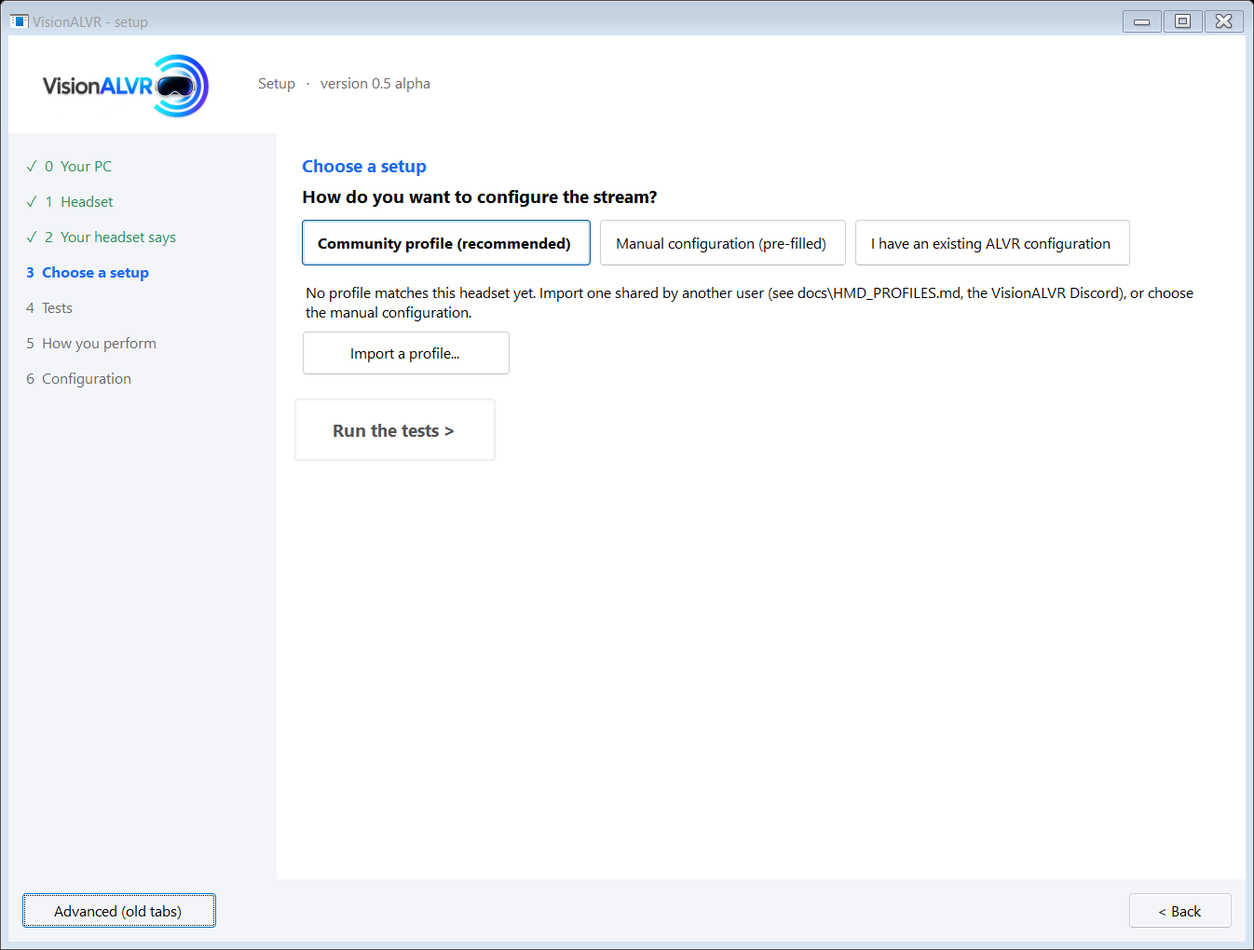
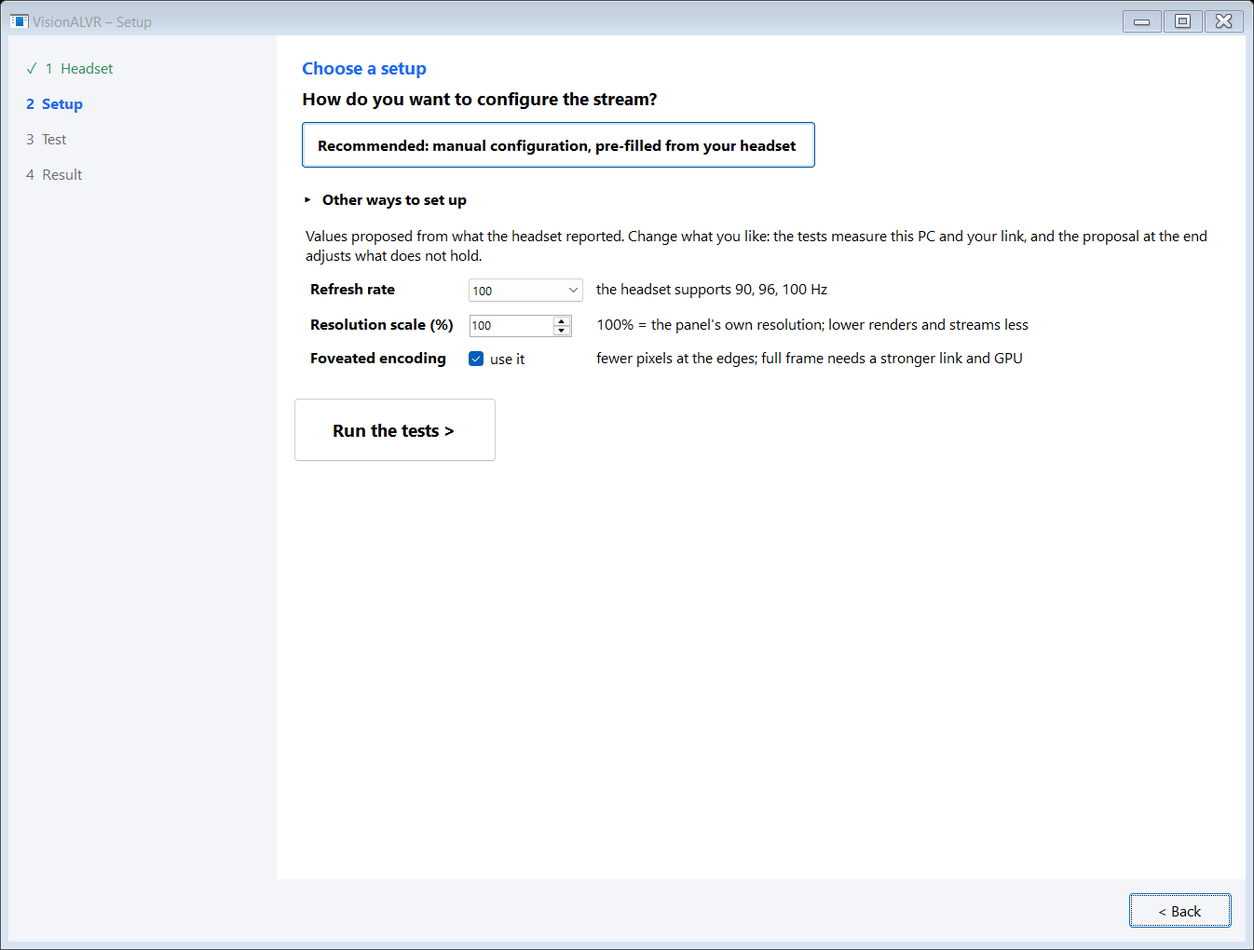
UI pass 4: wizard with four visible steps, one recommended setup + Other ways, verdict and top suggestions first (details collapsed), firewall dialog with one Clean up, Experimental badges, Apply for frame generation suggestions, launcher logs a refused second start; README screenshots, INSTALL

diff --git a/tools/gui/Wizard.cs b/tools/gui/Wizard.cs
@@ -25,10 +25,11 @@ namespace VisionALVR
         readonly Panel stepsPanel = new Panel { Dock = DockStyle.Left, Width = 230, BackColor = Color.FromArgb(0xF3, 0xF5, 0xF9), Padding = new Padding(12) };
         readonly Button back = new Button { Text = "< Back", AutoSize = true, MinimumSize = new Size(90, 30) };
         readonly Button next = new Button { Text = "Next >", AutoSize = true, MinimumSize = new Size(110, 30), Font = Ui.Bold };
-        readonly Button advanced = new Button { Text = "Advanced (old tabs)", AutoSize = true };
-        readonly Label[] stepLabels = new Label[7];
+                readonly Label[] stepLabels = new Label[4];
         Control wizHeader;
-        static readonly string[] StepNames = { "0  Your PC", "1  Headset", "2  Your headset says", "3  Choose a setup", "4  Tests", "5  How you perform", "6  Configuration" };
+        // four steps the user sees; the pages behind them: PC check + headset + handshake / choice of setup / tests / verdict + configuration
+        static readonly string[] StepNames = { "1  Headset", "2  Setup", "3  Test", "4  Result" };
+        static int Group(int page) => page <= 2 ? 0 : page == 3 ? 1 : page == 4 ? 2 : 3;
         int step;
         // state
         Handshake hs = new Handshake();
@@ -73,24 +74,21 @@ namespace VisionALVR
             Width = 1080; Height = 900;   // design values at 96 dpi: scaled at load, then kept inside the work area
             MinimumSize = new Size(980, 760);
             Ui.FitToWorkArea(this);
-            for (int i = 0; i < 7; i++)
+            for (int i = 0; i < 4; i++)
             {
                 stepLabels[i] = new Label { Text = StepNames[i], AutoSize = false, Height = 30, Dock = DockStyle.Top, Font = Ui.Body, ForeColor = Color.DimGray, TextAlign = ContentAlignment.MiddleLeft };
             }
-            for (int i = 6; i >= 0; i--) stepsPanel.Controls.Add(stepLabels[i]);
+            for (int i = 3; i >= 0; i--) stepsPanel.Controls.Add(stepLabels[i]);
             var bottom = new TableLayoutPanel { Dock = DockStyle.Bottom, AutoSize = true, ColumnCount = 4, Padding = new Padding(8), BackColor = Color.FromArgb(0xF3, 0xF5, 0xF9) };
             bottom.ColumnStyles.Add(new ColumnStyle(SizeType.AutoSize));
             bottom.ColumnStyles.Add(new ColumnStyle(SizeType.Percent, 100));
             bottom.ColumnStyles.Add(new ColumnStyle(SizeType.AutoSize));
             bottom.ColumnStyles.Add(new ColumnStyle(SizeType.AutoSize));
-            bottom.Controls.Add(advanced, 0, 0);
             bottom.Controls.Add(new Label(), 1, 0);
             bottom.Controls.Add(back, 2, 0);
             bottom.Controls.Add(next, 3, 0);
-            advanced.Visible = !cmd.Contains("--diagnose");
             back.Click += (s, e) => GoBack();
             next.Click += (s, e) => GoNext();
-            advanced.Click += (s, e) => { Hide(); new ConfigureForm(check).ShowDialog(); Close(); };
             Controls.Add(content);
             Controls.Add(stepsPanel);
             Controls.Add(bottom);
@@ -129,12 +127,15 @@ namespace VisionALVR
             if (wizHeader != null) wizHeader.Visible = s <= 1;
             discovery?.Dispose(); discovery = null;
             content.Controls.Clear();
-            for (int i = 0; i < 7; i++)
+            int g = Group(s), shown = 0;
+            for (int i = 0; i < 4; i++)
             {
-                stepLabels[i].Font = i == s ? Ui.Bold : Ui.Body;
-                stepLabels[i].ForeColor = i == s ? Ui.Accent : (i < s ? Color.SeaGreen : Color.DimGray);
-                stepLabels[i].Text = (i < s ? "✓  " : "") + StepNames[i];
-                stepLabels[i].Visible = !(diagnose && (i == 3 || i == 6));
+                stepLabels[i].Visible = !(diagnose && i == 1);   // diagnosing keeps the setup as it is: no Setup step
+                if (!stepLabels[i].Visible) continue;
+                shown++;
+                stepLabels[i].Font = i == g ? Ui.Bold : Ui.Body;
+                stepLabels[i].ForeColor = i == g ? Ui.Accent : (i < g ? Color.SeaGreen : Color.DimGray);
+                stepLabels[i].Text = (i < g ? "\u2713  " : "") + (diagnose && i > 1 ? StepNames[i].Replace((i + 1).ToString(), i.ToString()) : StepNames[i]);
             }
             back.Enabled = s > 1; back.Visible = true; next.Visible = true; next.Text = "Next >"; next.Enabled = true;
             Control page;
@@ -427,20 +428,35 @@ namespace VisionALVR
             // the three ways to a configuration; the tests (next page) then check it on this PC
             p.Controls.Add(Ui.Line("How do you want to configure the stream?", Ui.Big));
             var modes = new FlowLayoutPanel { AutoSize = true, WrapContents = true, MaximumSize = new Size(820, 0) };
-            modeProfile = new RadioButton { Appearance = Appearance.Button, Text = "Community profile (recommended)", AutoSize = true, Checked = true, Font = Ui.Bold, Padding = new Padding(8) };
+            modeProfile = new RadioButton { Appearance = Appearance.Button, Text = "Community profile", AutoSize = true, Font = Ui.Body, Padding = new Padding(8) };
             modeManual = new RadioButton { Appearance = Appearance.Button, Text = "Manual configuration (pre-filled)", AutoSize = true, Font = Ui.Body, Padding = new Padding(8) };
             modeExisting = new RadioButton { Appearance = Appearance.Button, Text = "I have an existing ALVR configuration", AutoSize = true, Font = Ui.Body, Padding = new Padding(8) };
-            modeProfile.CheckedChanged += (s, e) => { modeProfile.Font = modeProfile.Checked ? Ui.Bold : Ui.Body; RenderMode(real); };
-            modeManual.CheckedChanged += (s, e) => { modeManual.Font = modeManual.Checked ? Ui.Bold : Ui.Body; RenderMode(real); };
-            modeExisting.CheckedChanged += (s, e) => { modeExisting.Font = modeExisting.Checked ? Ui.Bold : Ui.Body; RenderMode(real); };
-            modes.Controls.Add(modeProfile); modes.Controls.Add(modeManual); modes.Controls.Add(modeExisting);
+            // the recommended way is the one choice shown: the matching community profile, else the pre-filled values; the others sit under "Other ways to set up".
+            // The buttons live in two containers, so they are made exclusive by hand.
+            var rec = matchedProfile != null ? modeProfile : modeManual;
+            rec.Text = "Recommended: " + (matchedProfile != null ? "community profile for your headset" : "manual configuration, pre-filled from your headset");
+            var radios = new[] { modeProfile, modeManual, modeExisting };
+            foreach (var r0 in radios)
+            {
+                var r = r0;
+                r.CheckedChanged += (s, e) =>
+                {
+                    r.Font = r.Checked ? Ui.Bold : Ui.Body;
+                    if (r.Checked) foreach (var o in radios) if (o != r && o.Checked) o.Checked = false;
+                    if (radios.Any(o => o.Checked)) RenderMode(real);
+                };
+            }
+            modes.Controls.Add(rec);
             p.Controls.Add(modes);
+            var others = new FlowLayoutPanel { AutoSize = true, WrapContents = true, MaximumSize = new Size(820, 0) };
+            foreach (var r in radios) if (r != rec) others.Controls.Add(r);
+            p.Controls.Add(Ui.Expander("Other ways to set up", others));
             modePanel = new FlowLayoutPanel { FlowDirection = FlowDirection.TopDown, WrapContents = false, AutoSize = true };
             p.Controls.Add(modePanel);
             hsGo = new Button { Text = "Run the tests >", AutoSize = true, Font = Ui.Big, Padding = new Padding(10), Margin = new Padding(0, 12, 0, 0) };
             hsGo.Click += (s, e) => ContinueToTests();
             p.Controls.Add(hsGo);
-            RenderMode(real);
+            rec.Checked = true;   // renders the option (the buttons' handlers need modePanel and hsGo)
             return p;
         }
 

diff --git a/tools/gui/Common.cs b/tools/gui/Common.cs
@@ -1033,8 +1033,8 @@ namespace VisionALVR
     {
         readonly ListView list = new ListView { View = View.Details, CheckBoxes = true, FullRowSelect = true, Height = 240, Width = 880, HeaderStyle = ColumnHeaderStyle.Nonclickable };
         readonly Label headline = new Label { AutoSize = true, MaximumSize = new Size(880, 0), Font = Ui.Bold, Margin = new Padding(3, 6, 3, 6) };
-        readonly Button allow = new Button { Text = "Allow this folder", AutoSize = true, Font = Ui.Bold, MinimumSize = new Size(130, 30) };
-        readonly Button remove = new Button { Text = "Remove ticked", AutoSize = true, MinimumSize = new Size(130, 30) };
+        readonly Button allow = new Button { Text = "Clean up", AutoSize = true, Font = Ui.Bold, MinimumSize = new Size(130, 30) };
+        readonly Button remove = new Button { Text = "Remove only the ticked rules", AutoSize = true, MinimumSize = new Size(130, 30) };
         FwReport report;
         readonly string exe;
         public FirewallForm(FwReport demo = null)
@@ -1050,15 +1050,26 @@ namespace VisionALVR
                 "Ticked rules are leftovers: files that are gone, duplicates, rules that block. Rules of other copies that still exist are left alone.", AutoSize = true, MaximumSize = new Size(880, 0), Margin = new Padding(3, 4, 3, 4) });
             col.Controls.Add(headline);
             foreach (var c in new[] { ("Rule", 190), ("Action", 70), ("Protocol", 80), ("Network", 100), ("On", 40), ("What it is", 400) }) Ui.Col(list, c.Item1, c.Item2);
-            col.Controls.Add(list);
             var row = new FlowLayoutPanel { AutoSize = true, Margin = new Padding(0, 8, 0, 0) };
             var refresh = new Button { Text = "Refresh", AutoSize = true, MinimumSize = new Size(100, 30) };
             var close = new Button { Text = "Close", AutoSize = true, DialogResult = DialogResult.OK, MinimumSize = new Size(100, 30) };
-            allow.Click += (s, e) => { Firewall.Allow(exe); Load(null); };
+            // one action: the rule that is missing is added, the leftovers are removed (the rules themselves are in the details below)
+            allow.Click += (s, e) =>
+            {
+                if (report != null && (report.State == FirewallState.Missing || report.State == FirewallState.Blocked)) Firewall.Allow(exe);
+                Firewall.Remove(list.Items.Cast<ListViewItem>().Where(i => i.Checked).Select(i => (FwRule)i.Tag));
+                Load(null);
+            };
             remove.Click += (s, e) => { Firewall.Remove(list.CheckedItems.Cast<ListViewItem>().Select(i => (FwRule)i.Tag)); Load(null); };
             refresh.Click += (s, e) => Load(null);
-            row.Controls.Add(allow); row.Controls.Add(remove); row.Controls.Add(refresh); row.Controls.Add(close);
+            var det = new FlowLayoutPanel { AutoSize = true, FlowDirection = FlowDirection.TopDown, WrapContents = false };
+            var detRow = new FlowLayoutPanel { AutoSize = true, Margin = new Padding(0, 4, 0, 0) };
+            detRow.Controls.Add(remove); detRow.Controls.Add(refresh);
+            det.Controls.Add(list); det.Controls.Add(detRow);
+            row.Controls.Add(allow); row.Controls.Add(close);
             col.Controls.Add(row);
+            col.Controls.Add(Ui.Expander("Details: the rules", det, demo != null));
+            AcceptButton = allow;
             var scroller = new Panel { Dock = DockStyle.Fill, AutoScroll = true, BackColor = Color.White };
             col.Dock = DockStyle.None; col.Location = Point.Empty;
             scroller.Controls.Add(col);
@@ -1088,7 +1099,7 @@ namespace VisionALVR
                 list.Items.Add(it);
             }
             Ui.FitColumns(list);
-            allow.Enabled = r.State == FirewallState.Missing || r.State == FirewallState.Blocked;
+            allow.Enabled = r.State == FirewallState.Missing || r.State == FirewallState.Blocked || r.Rules.Any(x => x.Propose);
             remove.Enabled = r.Rules.Count > 0;
         }
     }
@@ -1422,6 +1433,9 @@ namespace VisionALVR
 
         /// A statistics tile: small title, a big value, a one-line note. Sizes from its text (no fixed width), so it follows the display scale.
         public static Tile MakeTile(string title, string value = "-", string note = "", Color? color = null) { var t = new Tile(title, value, note); if (color != null) t.Set(value, note, color); return t; }
+
+        /// A small coloured tag next to a label (instead of a suffix in its text).
+        public static Label Badge(string text) => new Label { Text = text, AutoSize = true, ForeColor = Color.DarkOrange, Font = new Font(Body.FontFamily, 8.5f, FontStyle.Bold), Margin = new Padding(0, 6, 3, 0) };
 
         public static Label Line(string text, Font f = null) =>
             new Label { Text = text, AutoSize = true, Font = f ?? Body, Margin = new Padding(3, 3, 3, 3), MaximumSize = new Size(760, 0) }; // long lines wrap (narrower than the page: it may also have a scroll bar)

diff --git a/tools/gui/Advice.cs b/tools/gui/Advice.cs
@@ -195,11 +195,14 @@ namespace VisionALVR
                 if (!gen && g.Hz > 0 && g.Fps > 0 && g.Fps < 0.9 * g.Hz && g.RepTyp > 5)
                     s.Add(new Suggestion { Sev = Sev.Hint, Knob = "Frame generation", Source = src, Title = $"{g.Name}: frame generation would probably help",
                         Measured = $"it ran at {F(g.Fps, "0")} fps on a {F(g.Hz, "0")} Hz panel and the headset repeated {F(g.RepTyp)} % of its refreshes",
-                        Do = "tick Frame generation in the streamer window and leave Recommended on; some games look better raw (a 56 fps game was preferred to 2/3), so it is a taste, not a rule" });
+                        Do = "switch Frame generation on in the streamer window and leave it on Auto; some games look better raw (a 56 fps game was preferred to 2/3), so it is a taste, not a rule",
+                        Apply = () => { var st = new AppSettings(); st.FrameGen = true; st.FrameGenRecommended = true; st.Save(); }, ApplyText = "Turn frame generation on (Auto)" });
                 if (gen && g.HostRep >= 5)
                     s.Add(new Suggestion { Sev = Sev.Hint, Knob = "Frame generation rate", Source = src, Title = $"{g.Name}: the game could not keep up with its rate ({lvl})",
                         Measured = $"the streamer re-sent {F(g.HostRep)} % of its outputs because the game had not delivered (frozen content the headset counts as shown); the headset itself repeated {F(g.RepTyp)} %",
-                        Do = "choose the next lower rate (1/3 under 1/2): the Recommended tick does it after one more run" });
+                        Do = "choose the next lower rate (1/3 under 1/2): Auto does it after one more run",
+                        Apply = g.Level == "half" || g.Level == "two_thirds" ? (Action)(() => { var st = new AppSettings(); st.FrameGen = true; st.FrameGenRate = g.Level == "half" ? "third" : "half"; st.FrameGenRecommended = false; st.Save(); }) : null,
+                        ApplyText = g.Level == "half" ? "Use 1/3" : "Use 1/2" });
                 else if (gen && g.RepTyp >= 5)
                     s.Add(new Suggestion { Sev = Sev.Hint, Knob = "Arrival / Wi-Fi", Source = src, Title = $"{g.Name}: the headset still repeated {F(g.RepTyp)} % of its refreshes at {lvl}",
                         Measured = $"typical window {F(g.RepTyp)} %, heavy parts {F(g.RepP90)} %, host repeats {F(g.HostRep)} %",
@@ -216,15 +219,19 @@ namespace VisionALVR
         }
 
         /// The suggestions as controls for the results page.
-        public static Control Panel(List<Suggestion> list)
+        public static Control Panel(List<Suggestion> list, int top = 0)
         {
             var p = new FlowLayoutPanel { FlowDirection = FlowDirection.TopDown, WrapContents = false, AutoSize = true, Margin = new Padding(0, 8, 0, 0) };
             var head = Ui.Line("Suggestions", Ui.Big); head.ForeColor = Ui.Accent; p.Controls.Add(head);
             var note = Ui.Line("From docs\\PERFORMANCE_KNOBS.md, with this PC's measurements: the wizard's tests of this run and, when there are any, your logs and game records. Each says what it measured; nothing is changed unless you press a button.");
             note.ForeColor = Color.DimGray; p.Controls.Add(note);
             if (list.Count == 0) { p.Controls.Add(Ui.Line("Nothing to suggest: no measurement points to a knob worth changing.")); return p; }
+            // `top` > 0: the first few (the list is ordered, warnings first) and the rest behind "More suggestions"
+            var more = new FlowLayoutPanel { FlowDirection = FlowDirection.TopDown, WrapContents = false, AutoSize = true };
+            int n = 0;
             foreach (var x in list)
             {
+                var into = top > 0 && n++ >= top ? more : p;
                 var box = new FlowLayoutPanel { FlowDirection = FlowDirection.TopDown, WrapContents = false, AutoSize = true, Margin = new Padding(0, 6, 0, 2), Padding = new Padding(8, 4, 8, 4), MinimumSize = new Size(780, 0), BackColor = Color.FromArgb(0xF3, 0xF5, 0xF9) };
                 var t = Ui.Line((x.Sev == Sev.Warn ? "⚠  " : x.Sev == Sev.Info ? "✓  " : "•  ") + x.Title, Ui.Bold);
                 t.ForeColor = x.Sev == Sev.Warn ? Color.Firebrick : x.Sev == Sev.Info ? Color.SeaGreen : Color.Black;
@@ -239,8 +246,9 @@ namespace VisionALVR
                     b.Click += (s, e) => { ap(); b.Enabled = false; b.Text = "Done"; };
                     box.Controls.Add(b);
                 }
-                p.Controls.Add(box);
+                into.Controls.Add(box);
             }
+            if (more.Controls.Count > 0) p.Controls.Add(Ui.Expander("More suggestions (" + more.Controls.Count + ")", more));
             return p;
         }
     }

diff --git a/tools/gui/Verdict.cs b/tools/gui/Verdict.cs
@@ -73,38 +73,42 @@ namespace VisionALVR
                 fwClean ? Rating.Good : fw.State == FirewallState.Allowed ? Rating.Ok : fw.State == FirewallState.Unknown ? Rating.Unknown : Rating.Poor,
                 fw.Headline + " Review the rules with the button below.");
             add("GPU", string.IsNullOrEmpty(r.GpuName) ? "-" : r.GpuName, $"{r.Engines} hardware encoder engine(s), {r.VramMb / 1024.0:0} GB", Rating.Unknown);
-            p.Controls.Add(list);
+            var details = new FlowLayoutPanel { FlowDirection = FlowDirection.TopDown, WrapContents = false, AutoSize = true };
+            details.Controls.Add(list);
             Ui.FitColumns(list);
             if (!fwClean && fw.State != FirewallState.Unknown)
             {
                 var fwReview = new Button { Text = "Review firewall rules...", AutoSize = true, Margin = new Padding(3, 6, 3, 6) };
                 fwReview.Click += (s2, e2) => { using (var f = new FirewallForm()) f.ShowDialog(fwReview.FindForm()); };
-                p.Controls.Add(fwReview);
+                details.Controls.Add(fwReview);
             }
             if (layersOn.Count > 0)
             {
                 var review = new Button { Text = "Review OpenXR layers...", AutoSize = true, Margin = new Padding(3, 6, 3, 6) };
                 review.Click += (s2, e2) => { using (var f = new LayersForm()) f.ShowDialog(review.FindForm()); };
-                p.Controls.Add(review);
+                details.Controls.Add(review);
             }
             var count = new Func<string, int>(v => list.Items.Cast<ListViewItem>().Count(x => x.SubItems[3].Text == v));
             var verdict = count("Poor") > 0 ? "Limited: some parts are below the target (see below)" : (count("Ok") > 0 ? "Good: the setup works, a few values are only acceptable" : (count("Good") > 0 ? "Excellent: everything measured meets the target" : "Not enough measurements to judge"));
-            p.Controls.Add(Ui.Line(verdict, Ui.Big));
+            var vl = Ui.Line(verdict, Ui.Big);
+            vl.ForeColor = count("Poor") > 0 ? Color.Firebrick : count("Ok") > 0 ? Color.DarkOrange : Color.SeaGreen;
+            p.Controls.Add(vl);
             if (profile == null && r.CleanMbps >= 2 * tg.GoodMbps && r.CleanMbps > 0)
                 p.Controls.Add(Ui.Line($"\u2022 Your link carries {r.CleanMbps:0} Mbps, far more than this stream needs ({tg.GoodMbps:0} Mbps): there is room for a higher resolution or less foveation if your GPU's encoder allows it."));
             foreach (var a in bad.Distinct()) p.Controls.Add(Ui.Line("\u2022 " + a));
-            p.Controls.Add(Ui.Line($"\u2022 Network advice for {prof.Label}: {prof.WifiAdvice}."));
+            details.Controls.Add(Ui.Line($"\u2022 Network advice for {prof.Label}: {prof.WifiAdvice}."));
             // suggestions from docs/PERFORMANCE_KNOBS.md: this run's measurements, and the logs when there are any
             try
             {
                 var settings = new AppSettings();
                 var facts = LogFacts.Read(Paths.Logs, Games.Dir);
-                p.Controls.Add(Advice.Panel(Advice.From(r, hs, ctxFps, settings.Debug, facts, () => { settings.Debug = false; settings.Save(); })));
+                p.Controls.Add(Advice.Panel(Advice.From(r, hs, ctxFps, settings.Debug, facts, () => { settings.Debug = false; settings.Save(); }), 3));
             }
             catch (Exception e) { Log.Write("WARN", "suggestions: " + e.Message); }
             var note = Ui.Line("Targets are rules of thumb from ALVR's documentation and forum guidance (about 0.13 bits per encoded pixel as the minimum, 0.18 comfortable; encoder 5-10 ms; network about 10 ms), scaled to your stream. They tell you whether this setup is likely fine, not whether it is perfect.");
             note.ForeColor = Color.DimGray;
-            p.Controls.Add(note);
+            details.Controls.Add(note);
+            p.Controls.Add(Ui.Expander("Details: every measurement", details));
             return p;
         }
     }

diff --git a/tools/gui/SettingsPanel.cs b/tools/gui/SettingsPanel.cs
@@ -18,9 +18,9 @@ namespace VisionALVR
         public readonly NumericUpDown EyeW = Num(256, 8192, 32), EyeH = Num(256, 8192, 32), Bitrate = Num(10, 1000, 10);
         public readonly ComboBox Fps = new ComboBox { DropDownStyle = ComboBoxStyle.DropDownList, Width = 80 };
         public readonly RadioButton ProfFov = new RadioButton { Text = "Foveated (ALVR foveated encoding; recommended)", AutoSize = true };
-        public readonly RadioButton ProfFull = new RadioButton { Text = "Full frame + split encode (experimental, needs a strong link)", AutoSize = true };
+        public readonly RadioButton ProfFull = new RadioButton { Text = "Full frame + split encode (needs a strong link)", AutoSize = true };
         public readonly CheckBox Split = new CheckBox { Text = "Split encoding: one strip per NVENC engine (needs 2 or more)", AutoSize = true };
-        public readonly CheckBox FrameGen = new CheckBox { Text = "Frame generation (experimental; also in the streamer window)", AutoSize = true };
+        public readonly CheckBox FrameGen = new CheckBox { Text = "Frame generation (also in the streamer window)", AutoSize = true };
         public readonly NumericUpDown Fcx = Dec(0.1m, 1m), Fcy = Dec(0.1m, 1m), Fsx = Dec(-1m, 1m), Fsy = Dec(-1m, 1m), Frx = Dec(1m, 10m), Fry = Dec(1m, 10m);
         readonly Button idle = new Button { Width = 90, Height = 24, FlatStyle = FlatStyle.Flat };
         public readonly CheckBox Audio = new CheckBox { Text = "Stream game audio (Windows default output)", AutoSize = true };
@@ -65,10 +65,10 @@ namespace VisionALVR
             row("Bitrate (Mbps)", Bitrate);
             var prof = new FlowLayoutPanel { AutoSize = true, FlowDirection = FlowDirection.TopDown, Margin = new Padding(0) };
             prof.Controls.Add(ProfFov);
-            prof.Controls.Add(ProfFull);
+            prof.Controls.Add(flow(ProfFull, Ui.Badge("Experimental")));
             row("Encoding", prof, ProfFov);
             row("Split encoding", Split, Split);
-            row("Frame generation", FrameGen, FrameGen);
+            row("Frame generation", flow(FrameGen, Ui.Badge("Experimental")), FrameGen);
             row("Foveation center size", flow(Fcx, Fcy), Fcx);
             row("Foveation center shift", flow(Fsx, Fsy), Fsx);
             row("Foveation edge ratio", flow(Frx, Fry, Ui.Line("(higher = fewer pixels at the edges)")), Frx);

diff --git a/tools/gui/Configure.cs b/tools/gui/Configure.cs
@@ -25,7 +25,7 @@ namespace VisionALVR
         readonly NumericUpDown eyeW = Num(1024, 4096, 32), eyeH = Num(1024, 4096, 32), bitrate = Num(10, 1000, 10);
         readonly ComboBox fps = new ComboBox { DropDownStyle = ComboBoxStyle.DropDownList, Width = 80 };
         readonly RadioButton profFov = new RadioButton { Text = "Foveated (ALVR foveated encoding; recommended)", AutoSize = true };
-        readonly RadioButton profFull = new RadioButton { Text = "Full frame + split encode (experimental: 3x the pixels, needs a strong Wi-Fi link)", AutoSize = true };
+        readonly RadioButton profFull = new RadioButton { Text = "Full frame + split encode (3x the pixels, needs a strong Wi-Fi link)", AutoSize = true };
         readonly NumericUpDown fcx = Dec(0.1m, 1m), fcy = Dec(0.1m, 1m), fsx = Dec(-1m, 1m), fsy = Dec(-1m, 1m), frx = Dec(1m, 10m), fry = Dec(1m, 10m);
         readonly Button idle = new Button { Width = 90, Height = 24, FlatStyle = FlatStyle.Flat };
         readonly CheckBox audio = new CheckBox { Text = "Stream game audio (Windows default output)", AutoSize = true };
@@ -166,7 +166,7 @@ namespace VisionALVR
             row("Bitrate (Mbps)", flow(bitrate, Ui.Line("constant; the Benchmark tab can find yours")));
             var prof = new FlowLayoutPanel { AutoSize = true, FlowDirection = FlowDirection.TopDown, Margin = new Padding(0) };
             prof.Controls.Add(profFov);
-            prof.Controls.Add(profFull);
+            prof.Controls.Add(flow(profFull, Ui.Badge("Experimental")));
             row("Encoding", prof);
             row("Foveation center size", flow(fcx, fcy));
             row("Foveation center shift", flow(fsx, fsy));

diff --git a/tools/gui/Launcher.cs b/tools/gui/Launcher.cs
@@ -221,14 +221,15 @@ namespace VisionALVR
             Log.Component = "launcher";
             bool first;
             var one = new System.Threading.Mutex(true, "VisionALVR_Launcher", out first);
-            if (!first) return;   // a second double-click: the launcher (or the tool it stepped aside for) is already there
+            if (!first) { Log.Write("INFO", "launcher: already running, this start ends"); return; }   // a second double-click: the launcher (or the tool it stepped aside for) is already there
             Application.EnableVisualStyles();
             Application.SetCompatibleTextRenderingDefault(false);
             var args = Environment.GetCommandLineArgs();
             var f = new LauncherForm();
             var i = Array.IndexOf(args, "--test-flow");
             if (i >= 0 && i + 1 < args.Length) f.Shown += (s, e) => f.StartTestFlowPublic(args[i + 1]);
-            Application.Run(f);
+            try { Application.Run(f); }
+            catch (Exception e) { Log.Write("ERROR", "launcher failed: " + e); throw; }
         }
     }
 }

diff --git a/docs/INSTALL.md b/docs/INSTALL.md
@@ -29,7 +29,7 @@ the zip holds exactly the files above under one `VisionALVR\` folder, never logs
 general log appended by every run, one `logs\debug\<time>\` per debug run, config seeded, benchmark finds its scene).
 
 ## Steps
-configure.exe is a setup wizard: it checks the PC (NVIDIA GPU with a driver that supports NVENC API 12.2+), finds and pairs the headset (a paired or fixed-IP headset is listed at once; or add its IP), connects to read what the headset supports, then offers three ways to configure: a **community profile** (recommended; a shared JSON file for your headset, importable/exportable), **manual configuration** (pre-filled from what the headset reports) or **an existing ALVR configuration** (`config\session.json` and `visionalvr.json` used as they are). It then tests the encoder, the network, a short scene with your head movement and the split encoding, and shows how the setup performs. `configure.exe --advanced` opens the old tabs.
+configure.exe is a setup wizard: it checks the PC (NVIDIA GPU with a driver that supports NVENC API 12.2+), finds and pairs the headset (a paired or fixed-IP headset is listed at once; or add its IP), connects to read what the headset supports, then offers one recommended way to configure (the matching **community profile**, else **manual configuration** pre-filled from what the headset reports) and, under *Other ways to set up*, the rest: an imported profile, or **an existing ALVR configuration** (`config\session.json` and `visionalvr.json` used as they are; *Import my working ALVR session.json* asks for your ALVR folder, finds the file and keeps a backup of the current one). It then tests the encoder, the network, a short scene with your head movement and the split encoding, and shows the verdict with the top suggestions (every measurement is under *Details*). The launcher's *Advanced (full ALVR settings)* opens `configure.exe --advanced`, which has the same import.
 
 **The headset's address is not fixed.** VisionALVR dials the address saved at pairing first, and ALVR re-finds a paired headset by its name on the network on its own (mDNS for the Vision Pro, UDP broadcasts for Quest). If it still does not connect (new address that was not picked up, another headset, a reinstalled app), click **Find headset...** in the VisionALVR window: it stops the streamer, lists what the network shows (a headset at a new address is selected for you), pairs the one you pick and starts the streamer again. A fixed address can also be typed there for an already paired headset.
 
